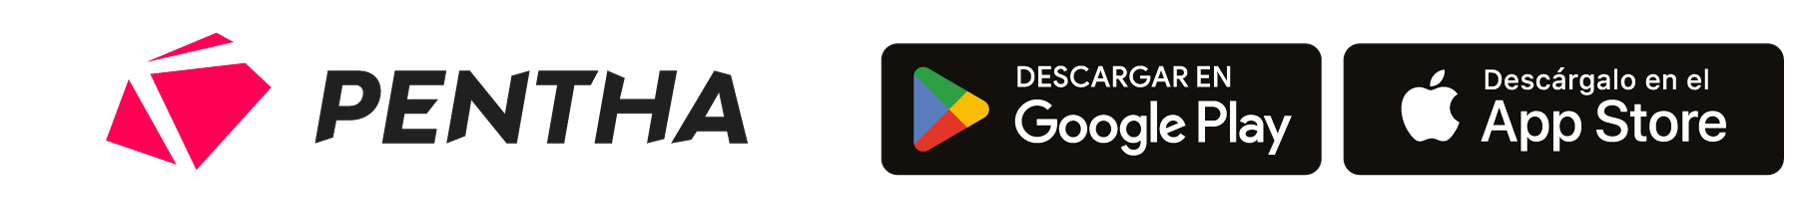
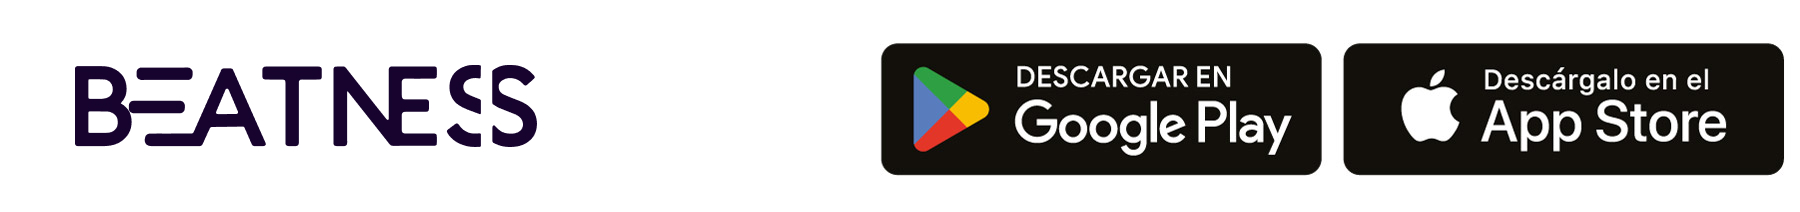
0.0.15 Se agrego imagenes para pagina

Changed region(s): [[0.0311, 0.283, 0.4356, 0.7925], [0.0933, 0.1698, 0.1244, 0.2547], [0.0622, 0.2547, 0.0933, 0.283]]

diff --git a/application/views/home/index.php b/application/views/home/index.php
@@ -2,7 +2,7 @@
         <div class="container-fluid">
             <div class="row">
                 <div class="col-sm-12 text-center p-0">
-                    <!-- <img class="img-fluid" src="<?php echo base_url(); ?>almacenamiento/img/web-01.jpg"> -->
+                    <img class="img-fluid" src="<?php echo base_url(); ?>almacenamiento/img/web-01.jpg">
                 </div>
             </div>
         </div>
@@ -14,7 +14,7 @@
                 <div class="col-sm-12 text-center p-0">
                 
                     <!-- <iframe width="90%" height="800" src="https://www.youtube.com/embed/upjEm3gokP8?rel=0&amp;autoplay=1&mute=1" title="beatnes.mx" frameborder="0" allow="accelerometer; autoplay; clipboard-write; encrypted-media; gyroscope; picture-in-picture" allowfullscreen style="border-radius:20px;"></iframe>                     -->
-                    <!-- <a href="https://beatness.mx/app/" target="_blank"><img class="img-fluid" src="<?php echo base_url(); ?>almacenamiento/img/web-02.jpg"></a> -->
+                    <a href="https://beatness.mx/app/" target="_blank"><img class="img-fluid" src="<?php echo base_url(); ?>almacenamiento/img/web-02.jpg"></a>
                     <!-- <a href="https://www.instagram.com/beatnessmx/" target="_blank"><img class="img-fluid" src="<?php echo base_url(); ?>almacenamiento/img/seccion-instagram.jpg"></a> -->
                 </div>
             </div>

diff --git a/application/views/_layout/public/header.php b/application/views/_layout/public/header.php
@@ -80,7 +80,7 @@
 
                 <div class="col-xs-12 text-center">
                     <!-- <a href="https://beatness.mx/descarga" target="_blank"><img src="<?php echo base_url(); ?>almacenamiento/logos/logo.jpg" alt="" class="img-fluid"></a> -->
-                    <a href="#"><img src="<?php echo base_url(); ?>almacenamiento/logos/logo-blan.png" alt="" class="img-fluid" width="50%"></a>
+                    <a href="https://pentha.mx/descarga" target="_blank"><img src="<?php echo base_url(); ?>almacenamiento/img/header-01.jpg" alt="" class="img-fluid"></a>
                 </div>
 
             </div>
